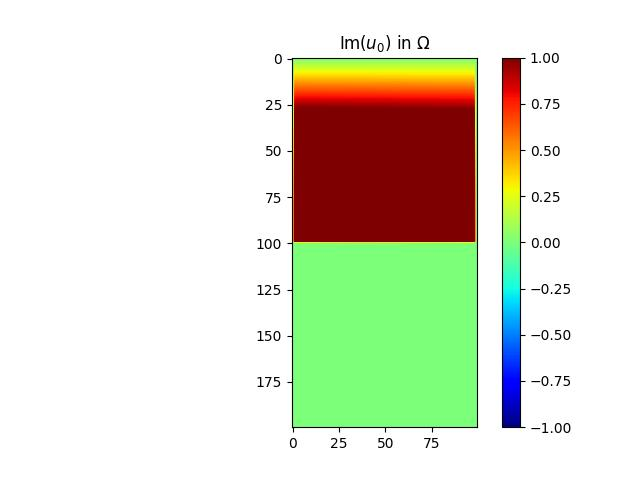
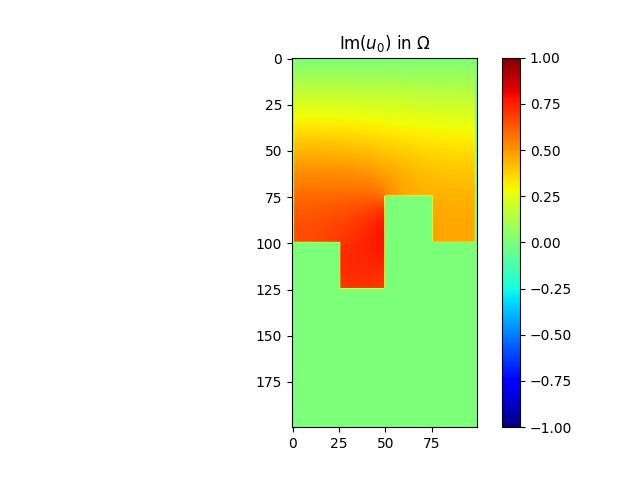
descente grad v2

Changed region(s): [[0.4375, 0.125, 0.75, 0.625]]

diff --git a/demo_control_polycopie2023.py b/demo_control_polycopie2023.py
@@ -15,11 +15,13 @@ import postprocessing
 #import solutions
 
 def compute_J_prim(alpha, u, p) :
+    #alpha complexe
     M,N=np.shape(u)
     res=np.zeros((M,N))
+
     for i in range(M) :
         for j in range(N) :
-            res[i,j]=np.real(-alpha[i,j]*u[i,j]*p[i,j])
+            res[i,j]=np.real(-alpha*u[i,j]*p[i,j])
     return res
 
 
@@ -27,7 +29,7 @@ def BelongsInteriorDomain(node):
                 if (node < 0):
                     return 1
                 if node == 3:
-                    print("Robin")
+                    #print("Robin")
                     return 2
                 else:
                     return 0
@@ -73,17 +75,17 @@ def compute_gradient_descent(chi, grad, domain, mu):
             c = BelongsInteriorDomain(domain[i, j + 1])
             d = BelongsInteriorDomain(domain[i, j - 1])
             if a == 2:
-                print(i+1,j, "-----", "i+1,j")
+                #print(i+1,j, "-----", "i+1,j")
 
                 chi[i + 1, j] = chi[i + 1, j] - mu * grad[i, j]
             if b == 2:
-                print(i - 1, j, "-----", "i - 1, j")
+                #print(i - 1, j, "-----", "i - 1, j")
                 chi[i - 1, j] = chi[i - 1, j] - mu * grad[i, j]
             if c == 2:
-                print(i, j + 1, "-----", "i , j + 1")
+                #print(i, j + 1, "-----", "i , j + 1")
                 chi[i, j + 1] = chi[i, j + 1] - mu * grad[i, j]
             if d == 2:
-                print(i, j - 1, "-----", "i , j - 1")
+                #print(i, j - 1, "-----", "i , j - 1")
                 chi[i, j - 1] = chi[i, j - 1] - mu * grad[i,j]
     return chi
 
@@ -116,11 +118,11 @@ def compute_projected(chi, domain, V_obj):
     B = chi.copy()
     l = 0
     chi = processing.set2zero(chi, domain)
-
     V = np.sum(np.sum(chi)) / S
-    debut = -np.max(chi)
-    fin = np.max(chi)
+    debut = -np.max(np.abs(chi))
+    fin = np.max(np.abs(chi))
     ecart = fin - debut
+    
     # We use dichotomy to find a constant such that chi^{n+1}=max(0,min(chi^{n}+l,1)) is an element of the admissible space
     while ecart > 10 ** -4:
         # calcul du milieu 
@@ -135,7 +137,8 @@ def compute_projected(chi, domain, V_obj):
         else:
             debut = l
         ecart = fin - debut
-        # print('le volume est', V, 'le volume objectif est', V_obj)
+        #print("écart", ecart)
+        #print('le volume est', V, 'le volume objectif est', V_obj)
 
     return chi
 
@@ -153,11 +156,10 @@ def your_optimization_procedure(domain_omega, spacestep, omega, f, f_dir, f_neu,
         mu: float, it is the initial step of the gradient's descent;
         V_obj: float, it characterizes the volume constraint on the density chi.
     """
-
     k = 0
     (M, N) = np.shape(domain_omega)
-    numb_iter = 5
-    energy = np.zeros((numb_iter+1, 1), dtype=np.float64)
+    numb_iter = 5 
+    energy = np.zeros((numb_iter, 1), dtype=np.float64)
     while k < numb_iter and mu > 10**(-5):
         print('1. computing solution of Helmholtz problem, i.e., u')
         u=processing.solve_helmholtz(domain_omega, spacestep, omega, f, f_dir, f_neu, f_rob, beta_pde, alpha_pde, alpha_dir, beta_neu, beta_rob, alpha_rob)
@@ -166,11 +168,13 @@ def your_optimization_procedure(domain_omega, spacestep, omega, f, f_dir, f_neu,
         print('3. computing objective function, i.e., energy')
         J=your_compute_objective_function(u)
         energy[k]=J
-        Jprim=compute_J_prim(alpha_rob, u, p)
+        Jprim=compute_J_prim(Alpha, u, p)
         print('4. computing parametric gradient')
         ene=J
+        
         while ene >= energy[k] and mu > 10 ** -5:
             grad = Jprim
+
             print('    a. computing gradient descent')
             chi = compute_gradient_descent(chi, grad, domain_omega, mu) #chi_k+1 sans projection (l=0)
 
@@ -182,19 +186,22 @@ def your_optimization_procedure(domain_omega, spacestep, omega, f, f_dir, f_neu,
             
 
             print('    d. computing objective function, i.e., energy (E)')
-            ene = your_compute_objective_function(u)-1
-            bool_a=True
+
+            ene = your_compute_objective_function(u)
+            bool_a=ene<J
             if bool_a:
                 # The step is increased if the energy decreased
                 mu = mu * 1.1
             else:
                 # The step is decreased is the energy increased
                 mu = mu / 2
+
+        alpha_rob = Alpha*chi
         k += 1
 
     print('end. computing solution of Helmholtz problem, i.e., u')
     grad=0
-
+    
     return chi, energy, u, grad
 
 
@@ -229,7 +236,7 @@ if __name__ == '__main__':
     # -- set parameters of the geometry
     N = 100  # number of points along x-axis
     M = 2 * N  # number of points along y-axis
-    level = 0 # level of the fractal
+    level = 1 # level of the fractal
     spacestep = 1.0 / N  # mesh size
 
     # -- set parameters of the partial differential equation
@@ -271,6 +278,7 @@ if __name__ == '__main__':
     # -- define material density matrix
     chi = preprocessing._set_chi(M, N, x, y)
     chi = preprocessing.set2zero(chi, domain_omega)
+    
 
     # -- define absorbing material
     # Alpha = 10.0 - 10.0 * 1j
@@ -315,7 +323,6 @@ if __name__ == '__main__':
                            beta_pde, alpha_pde, alpha_dir, beta_neu, beta_rob, alpha_rob,
                            Alpha, mu, chi, V_obj)
     # --- en of optimization
-
     chin = chi.copy()
     un = u.copy()
 
